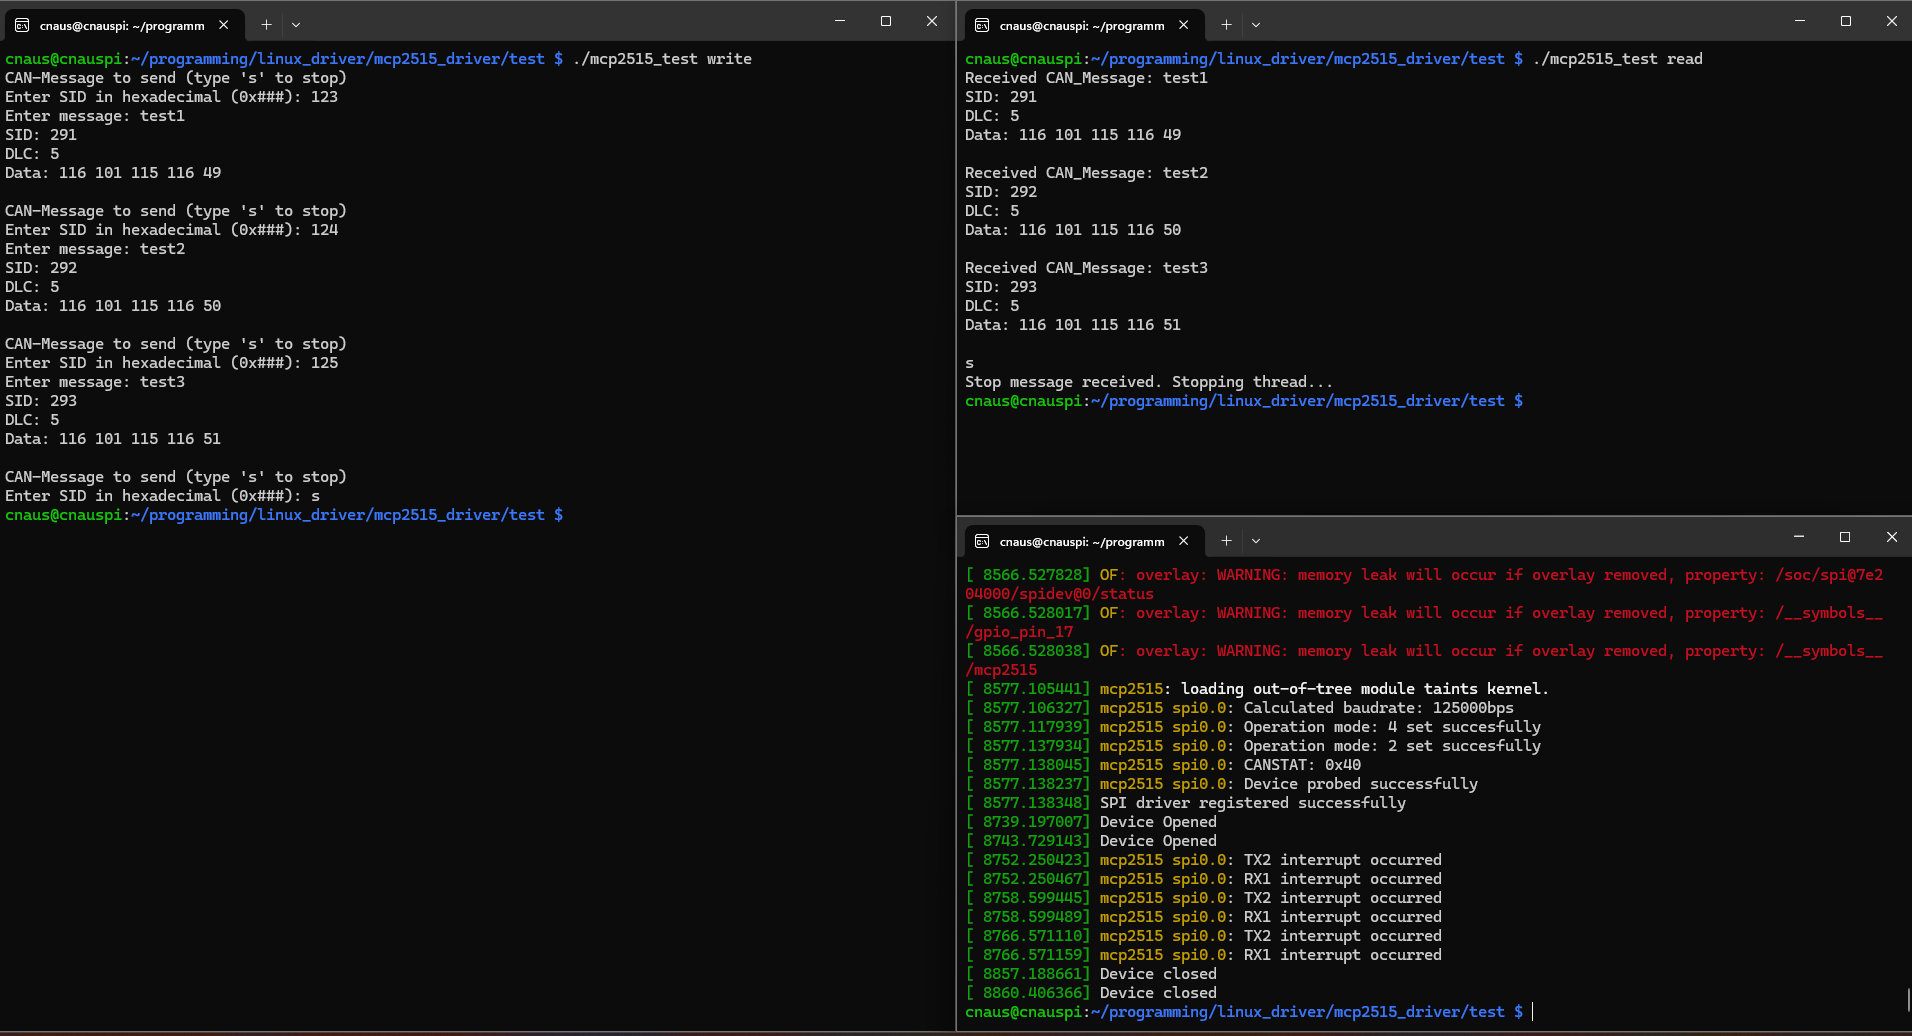
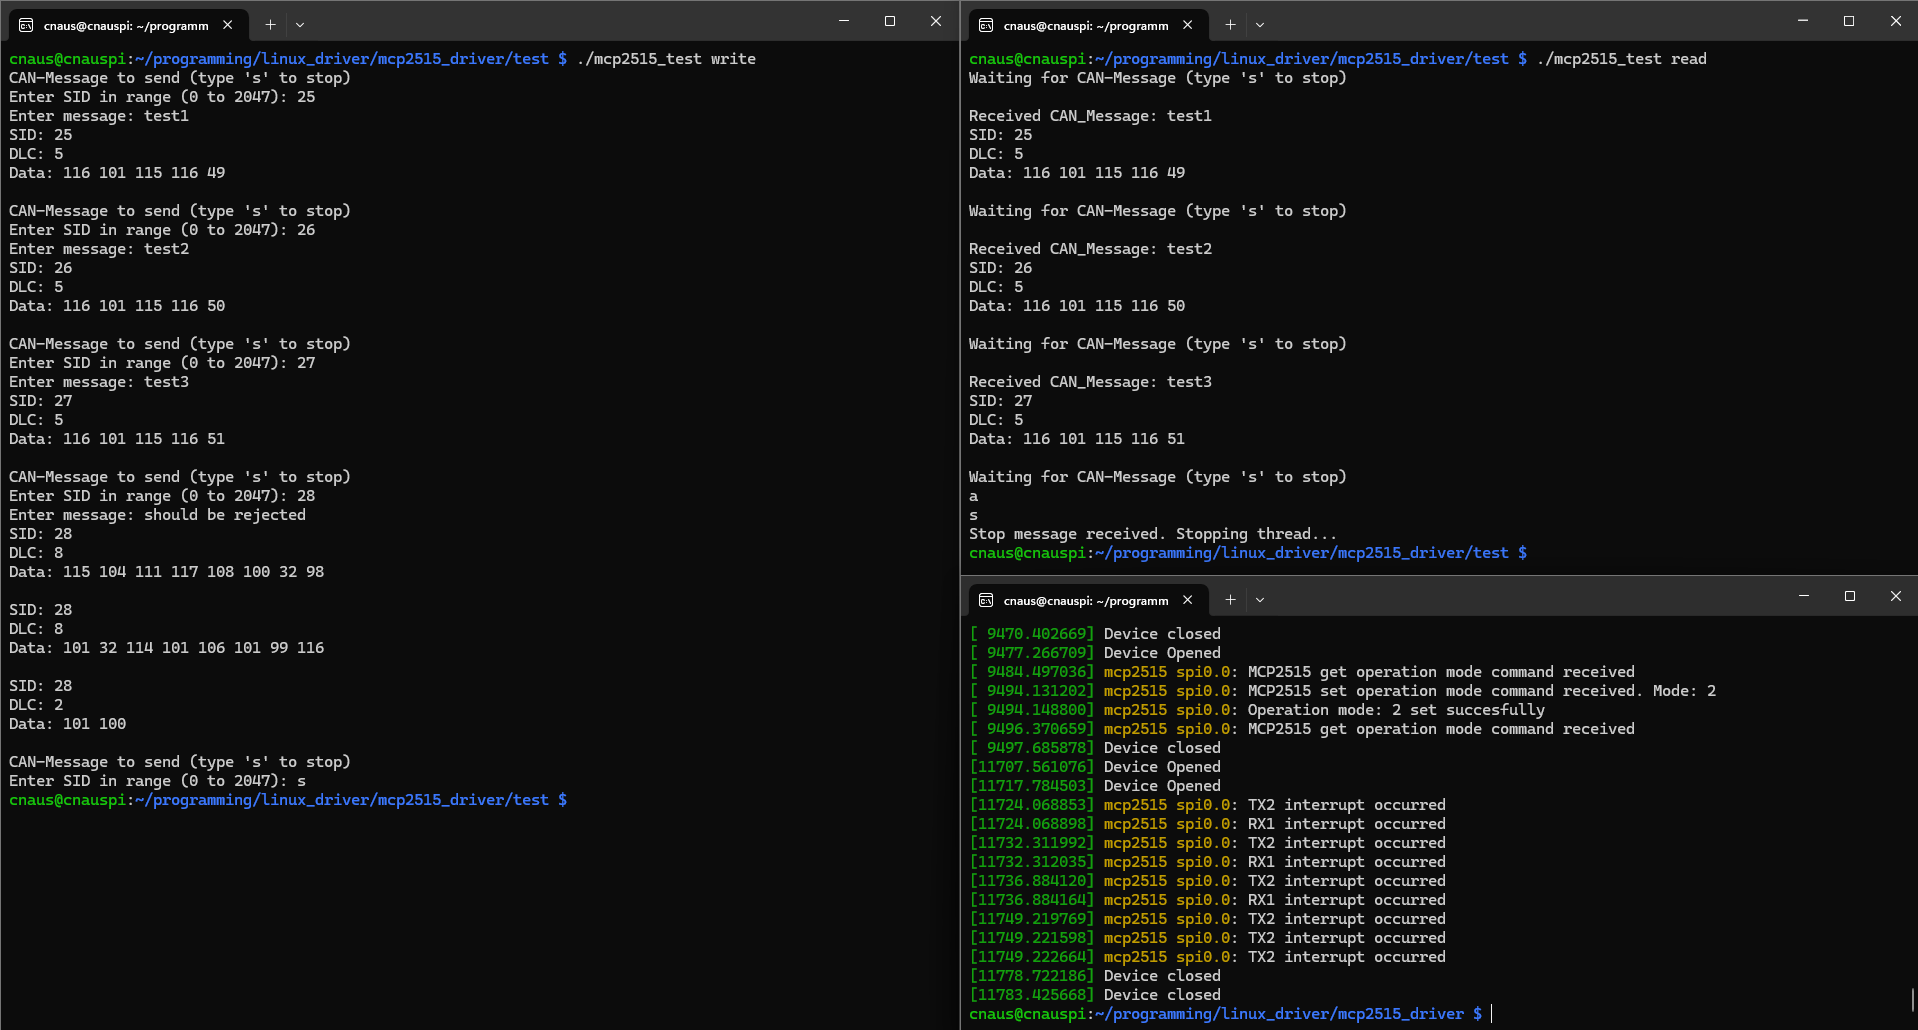
Support of IOCTL implemented [Feature Finished]
Enhancements:
- Filter initialization on reset now sets filters to zero.
- Added driver handling for chip configuration mode when setting/reading filter values.
- Expanded filter configuration menu to display available options.

Updated Readme to reflect new features in the configuration and test tool.

diff --git a/src/mcp2515.c b/src/mcp2515.c
@@ -103,6 +103,7 @@ static int mcp2515_read_reg(struct spi_device *spi, u8 reg, u8 *value);
 static int mcp2515_write_bit(struct spi_device *spi, u8 reg, u8 mask, u8 value);
 
 static int mcp2515_set_opmode(struct spi_device *spi, u8 mode);
+static int mcp2515_get_opmode(struct spi_device *spi, u8 *mode);
 static int mcp2515_reset_hw(struct spi_device *spi);
 static int mcp2515_config_hw(struct spi_device *spi);
 static int mcp2515_start_dwork(struct mcp2515_priv *priv, work_func_t work_func);
@@ -251,6 +252,24 @@ static int mcp2515_set_opmode(struct spi_device *spi, u8 mode)
     return mcp2515_start_dwork(priv, mcp2515_check_opmode_work); 
 }
 
+static int mcp2515_get_opmode(struct spi_device *spi, u8 *mode)
+{
+    int ret = 0;
+    u8 canstat = 0x0;
+
+    // read CANSTAT register
+    ret = mcp2515_read_reg(spi, MCP2515_CANSTAT, &canstat);
+    if (ret) {
+        dev_err(&spi->dev, "Failed to read CANSTAT register\n");
+        return -EFAULT; 
+    }
+
+    // retrive operation mode from the status register 
+    *mode = ((canstat & MCP2515_OPMOD_M) >> MCP2515_OPMOD_O); 
+
+    return 0;
+}
+
 static int mcp2515_reset_hw(struct spi_device *spi) 
 {
     int ret = 0;
@@ -331,9 +350,12 @@ static int mcp2515_config_hw(struct spi_device *spi)
     mask.number = 0;
     mask.value = 0x7FF;  // 0111 1111 1111 matching mask
     ret |= mcp2515_set_rxbm(spi, mask);
-    // set rxb0 filter 0 to:
+    // set rxb0 filter 0 to: 0x7FF
+    filter.value =  0x7FF;  // 1111 1111 filter vlaue 
     filter.number = 0;
-    filter.value =  0x7FF;  // 0111 1111 1111 filter vlaue 
+    ret |= mcp2515_set_rxbf(spi, filter);
+    // set rxb0 filter 1 to: 0x7FF
+    filter.number = 1;
     ret |= mcp2515_set_rxbf(spi, filter);
     if (ret) {
         dev_err(&spi->dev, "Failed to configure receive buffer 0\n");
@@ -345,8 +367,13 @@ static int mcp2515_config_hw(struct spi_device *spi)
     ret |= mcp2515_write_reg(spi, MCP2515_RXB1CTRL, rxb1ctrl);
     // set mask for RxB1: match all bits to filter CAN ID
     mask.number = 1;
-    mask.value = 0x7FF;  // 0111 1111 1111 matching mask
+    mask.value =  0x7FF;
     ret |= mcp2515_set_rxbm(spi, mask);
+    // set rxb1 filter 2 to 5 to the value: 0x00
+    filter.value = 0x00;
+    for (filter.number = 2; filter.number <=5; filter.number++) {
+        ret |= mcp2515_set_rxbf(spi, filter);
+    }
     if (ret) {
         dev_err(&spi->dev, "Failed to configure receive buffer 1\n");
         return ret;
@@ -916,6 +943,7 @@ static long mcp2515_ioctl(struct file *file, unsigned int cmd, unsigned long arg
         }
         case MCP2515_SET_RXBF_IOCTL: {
             struct rx_filter filter;
+            u8 prev_opmode = 0x0;
             dev_info(&spi->dev, "MCP2515 set RXB filter command received\n");
 
             // retrieve filter data from user space 
@@ -925,8 +953,19 @@ static long mcp2515_ioctl(struct file *file, unsigned int cmd, unsigned long arg
                 return -EFAULT;
             }
 
-            // set the filter for receive buffer 
-            ret = mcp2515_set_rxbf(spi, filter);
+            // save the current operation mode
+            ret |= mcp2515_get_opmode(spi, &prev_opmode);
+            
+            // switch the chip into the configuration mode 
+            ret |= mcp2515_set_opmode(spi, MCP2515_CONFIG_MODE);
+
+            // set the filter for receive buffer
+            ret |= mcp2515_set_rxbf(spi, filter);
+
+            // restore the old operation mode;
+            ret |= mcp2515_set_opmode(spi, prev_opmode);
+            
+            // check the overall error status 
             if (ret) {
                 dev_err(&spi->dev, "Failed to set RXB filter: %d", filter.number);
                 return ret;
@@ -937,6 +976,7 @@ static long mcp2515_ioctl(struct file *file, unsigned int cmd, unsigned long arg
         }
         case MCP2515_GET_RXBF_IOCTL: {
             struct rx_filter filter;
+            u8 prev_opmode = 0x0;
             dev_info(&spi->dev, "MCP2515 get RXB filter command received\n");
 
             // retireve filter number to read
@@ -946,8 +986,19 @@ static long mcp2515_ioctl(struct file *file, unsigned int cmd, unsigned long arg
                 return -EFAULT;
             }
 
+            // save the current operation mode
+            ret |= mcp2515_get_opmode(spi, &prev_opmode);
+            
+            // switch the chip into the configuration mode 
+            ret |= mcp2515_set_opmode(spi, MCP2515_CONFIG_MODE);
+
             // read the register value for the given filter number
-            ret = mcp2515_get_rxbf(spi, &filter);
+            ret |= mcp2515_get_rxbf(spi, &filter);
+
+            // restore the old operation mode;
+            ret |= mcp2515_set_opmode(spi, prev_opmode);
+
+            // check the overall error status 
             if (ret) {
                 dev_err(&spi->dev, "Failed to get RX filter: %d\n", filter.number);
                 return ret;
@@ -979,19 +1030,17 @@ static long mcp2515_ioctl(struct file *file, unsigned int cmd, unsigned long arg
             break;
         }
         case MCP2515_GET_OPMODE_IOCTL: {
-            u8 canstat = 0;
             u8 opmode = 0;
             dev_info(&spi->dev, "MCP2515 get operation mode command received\n");
 
-            // read CANSTAT register
-            ret = (long)mcp2515_read_reg(spi, MCP2515_CANSTAT, &canstat);
+            // retrieve the current operation mode form the chip 
+            ret = mcp2515_get_opmode(spi, &opmode);
             if (ret) {
-                dev_err(&spi->dev, "Failed to read CANSTAT register\n");
-                return -EFAULT; 
-            }
+                dev_err(&spi->dev, "Failed to retrieve the operation mode from the chip\n");
+                return -EFAULT;
+            } 
 
-            // retrive operation mode and copy it to user space 
-            opmode = ((canstat & MCP2515_OPMOD_M) >> MCP2515_OPMOD_O);
+            // copy the operation mode value to user space 
             ret = copy_to_user((u8 __user *)arg, &opmode, sizeof(opmode));
             if (ret) {
                 dev_err(&spi->dev, "Failed to copy opmode-value to user space\n");

diff --git a/test/mcp2515_test.cpp b/test/mcp2515_test.cpp
@@ -20,6 +20,7 @@ std::atomic<bool> stop_thread(false);   // gloabal flag to signal thread to stop
 
 static void signal_handler(int signal);
 static void show_config_menu();
+static void show_opmode_menu();
 static void config_hw(CanDevice* dev);
 static void thread_send_data(CanDevice* dev);
 static void thread_receive_data(CanDevice* dev);
@@ -87,6 +88,18 @@ void show_config_menu()
     std::cout << "5. Get Operation Mode\n";
     std::cout << "6. Exit\n";
     std::cout << "Enter your choice: ";
+}
+
+void show_opmode_menu()
+{
+    std::cout << std::endl;
+    std::cout << "=== Setting operation mode ===\n";
+
+    size_t len = get_opmode_strings_len();
+    for (size_t i = 0; i < len; i++) {
+        std::cout << i <<". " << get_opmode_string(i) << std::endl;
+    }
+    std::cout << std::endl;
 }
 
 void config_hw(CanDevice *dev)
@@ -177,7 +190,7 @@ void config_hw(CanDevice *dev)
                 rx_filter filter;
 
                 std::cout << "\n=== Receive Buffer 1 filter state ===\n";
-                for (int i = 2; i < 5; i++) {
+                for (int i = 2; i <= 5; i++) {
                     filter.number = static_cast<uint8_t>(i);
                     if (ioctl(fd, MCP2515_GET_RXBF_IOCTL, &filter) < 0) {
                         std::cout << "Failed to read the filter value\n";
@@ -192,6 +205,9 @@ void config_hw(CanDevice *dev)
             case MCP2515_SET_OPMODE_SEQ_NO: {
                 int opmode_input;
                 uint8_t opmode = 0;
+
+                // print the operation mode menu 
+                show_opmode_menu();
 
                 // read user input 
                 std::cout << "Enter operation mode: ";
@@ -211,7 +227,7 @@ void config_hw(CanDevice *dev)
                 if (ioctl(fd, MCP2515_GET_OPMODE_IOCTL, &opmode) < 0) {
                     std::cerr << "Failed to get operation mode\n";
                 } else {
-                    std::cout << "Current operation mode: " << static_cast<int>(opmode) << std::endl;
+                    std::cout << "Current operation mode: " << get_opmode_string(static_cast<uint8_t>(opmode)) << std::endl;
                 }
                 break;
             }
@@ -242,7 +258,7 @@ void thread_send_data(CanDevice* dev)
         std::cout << "CAN-Message to send (type 's' to stop)\n";
         std::cout << "Enter SID in range (0 to 2047): ";
         std::getline(std::cin, input);
-        if (input == "s") {
+        if (input == "s" || input == "S") {
             stop_thread.store(true);
             break;
         }
@@ -328,6 +344,7 @@ void thread_receive_data(CanDevice* dev)
     int fd = dev->get_fd();
     struct timeval timeout;
 
+    std::cout << "Waiting for CAN-Message (type 's' to stop)\n";
     while (!stop_thread.load()) {
         // Initialize the file descriptor set
         FD_ZERO(&read_fds);
@@ -355,9 +372,11 @@ void thread_receive_data(CanDevice* dev)
                 std::cerr << "Error: Failed to receive message: \n";
                 break;
             } else {
-                std::cout << "Received CAN_Message: ";
+                std::cout << "\nReceived CAN_Message: ";
                 frame.print_message();
                 frame.print_frame_data();
+
+                std::cout << "Waiting for CAN-Message (type 's' to stop)\n";
             }
         }
 
@@ -365,7 +384,7 @@ void thread_receive_data(CanDevice* dev)
         if (FD_ISSET(STDIN_FILENO, &read_fds)) {
             std::string input;
             std::getline(std::cin, input);
-            if (input == "s") {
+            if (input == "s" || input == "S") {
                 std::cout << "Stop message received. Stopping thread..." << std::endl;
                 stop_thread.store(true);
                 break;

diff --git a/common/mcp2515_common.c b/common/mcp2515_common.c
@@ -1,0 +1,21 @@
+#include "mcp2515_common.h"
+
+const char *mode_strings[] = {
+    "Normal Operation mode",  // 0x00
+    "Sleep mode",             // 0x01
+    "Loopback mode",          // 0x02
+    "Listen-Only mode",       // 0x03
+    "Configuration mode"      // 0x04
+};
+
+size_t get_opmode_strings_len(void) {
+    return sizeof(mode_strings) / sizeof(mode_strings[0]);
+}
+
+const char* get_opmode_string(unsigned int mode) {
+    if (mode >= 0 && mode <= 4) {
+        return mode_strings[mode];
+    } else {
+        return "Invalid operation mode";
+    }
+}

diff --git a/common/mcp2515_common.h b/common/mcp2515_common.h
@@ -6,6 +6,7 @@
 #include <linux/types.h>    // For uint8_t, uint16_t in kernel space
 #else
 #include <stdint.h>         // For uint8_t, uint16_t in user space
+#include <stdio.h>          // For size_t
 #endif
 
 #define MCP2515_MAXDL 8     // Maximum Data Length for CAN messages
@@ -32,5 +33,10 @@ struct rx_filter {
     uint8_t number;
     uint16_t value;
 };
+
+extern const char *opmode_strings[];
+
+size_t get_opmode_strings_len(void);
+const char* get_opmode_string(unsigned int mode);
 
 #endif // MCP2515_COMMON_H

diff --git a/test/README.md b/test/README.md
@@ -1,15 +1,37 @@
-# MCP2515 Device Driver Test Tool
+# MCP2515 Device Driver Configuration and Test Tool
 
-This repository contains a test tool for testing the MCP2515 device driver on the Raspberry Pi 4. 
-The test tool ensures that the MCP2515 CAN controller and device driver are working properly.
-
-![Test Verification](https://github.com/AndreasCnaus/PiCAN_Sense/blob/master/docs/mcp2515_test_verification.png)
+This repository contains a command-line tool for configuring and testing the MCP2515 device driver on the Raspberry Pi 4. The test tool ensures that the MCP2515 CAN controller and device driver are working properly.
 
 ## Features
+- **Configuration of MCP2515-Chip (via IOCTL-Interface)**:
+  - Reset-Chip
+  - Get/Set the Receive-Filter 2..5
+  - Get/Set the Operation Mode
+- **Data Transmission**: Write CAN-Message [SID:Data] on the CAN-Bus (or to the TX->RX-Buffer in loopback mode)
+- **Data Reception**: Read CAN-Message [SID:Data] from the RX-Buffer
 
-- Write CAN-Message [SID:Data] on the CAN-Bus (or to the TX->RX-Buffer in loopback mode)
-- Read CAN-Message [SID:Data] from the RX-Buffer
-- Configure the MCP2515-Chip (Reset-Chip, Set the Receive-Filter 1..5, Set the Operation Mode) via IOCTL-Interface : **not implemented yet**.
+## Usage
+
+### Configuration Mode
+Run the tool in configuration mode to set up the MCP2515-Chip:
+
+```sh
+./mcp2515_test config
+```
+![Configuration](../docs/mcp2515_configuration.png)
+
+### Read/Write Mode
+Run the tool in read or write mode to transmit or receive CAN-Messages:
+
+```sh
+./mcp2515_test read
+```
+
+```sh
+./mcp2515_test write
+```
+
+![Test Verification](../docs/mcp2515_test_verification.png)
 
 ## Installation
 
@@ -30,19 +52,7 @@ The test tool ensures that the MCP2515 CAN controller and device driver are work
     ```sh
     make
     ```
-## Usage
 
-1. Run the test tool in write mode to create CAN-Message and put it on the CAN-Bus(or to the TX->RX-Buffer in loopback mode):
-
-    ```sh
-    ./mcp2515_test write
-    ```
-2.  Run the test tool in read mode to read CAN-Message if any from the MCP2515 Receive-Buffer:
-
-    ```sh
-    ./mcp2515_test read
-    ```
-    
 ## License
 
 This project is licensed under the MIT License. See the [LICENSE](LICENSE) file for details.
